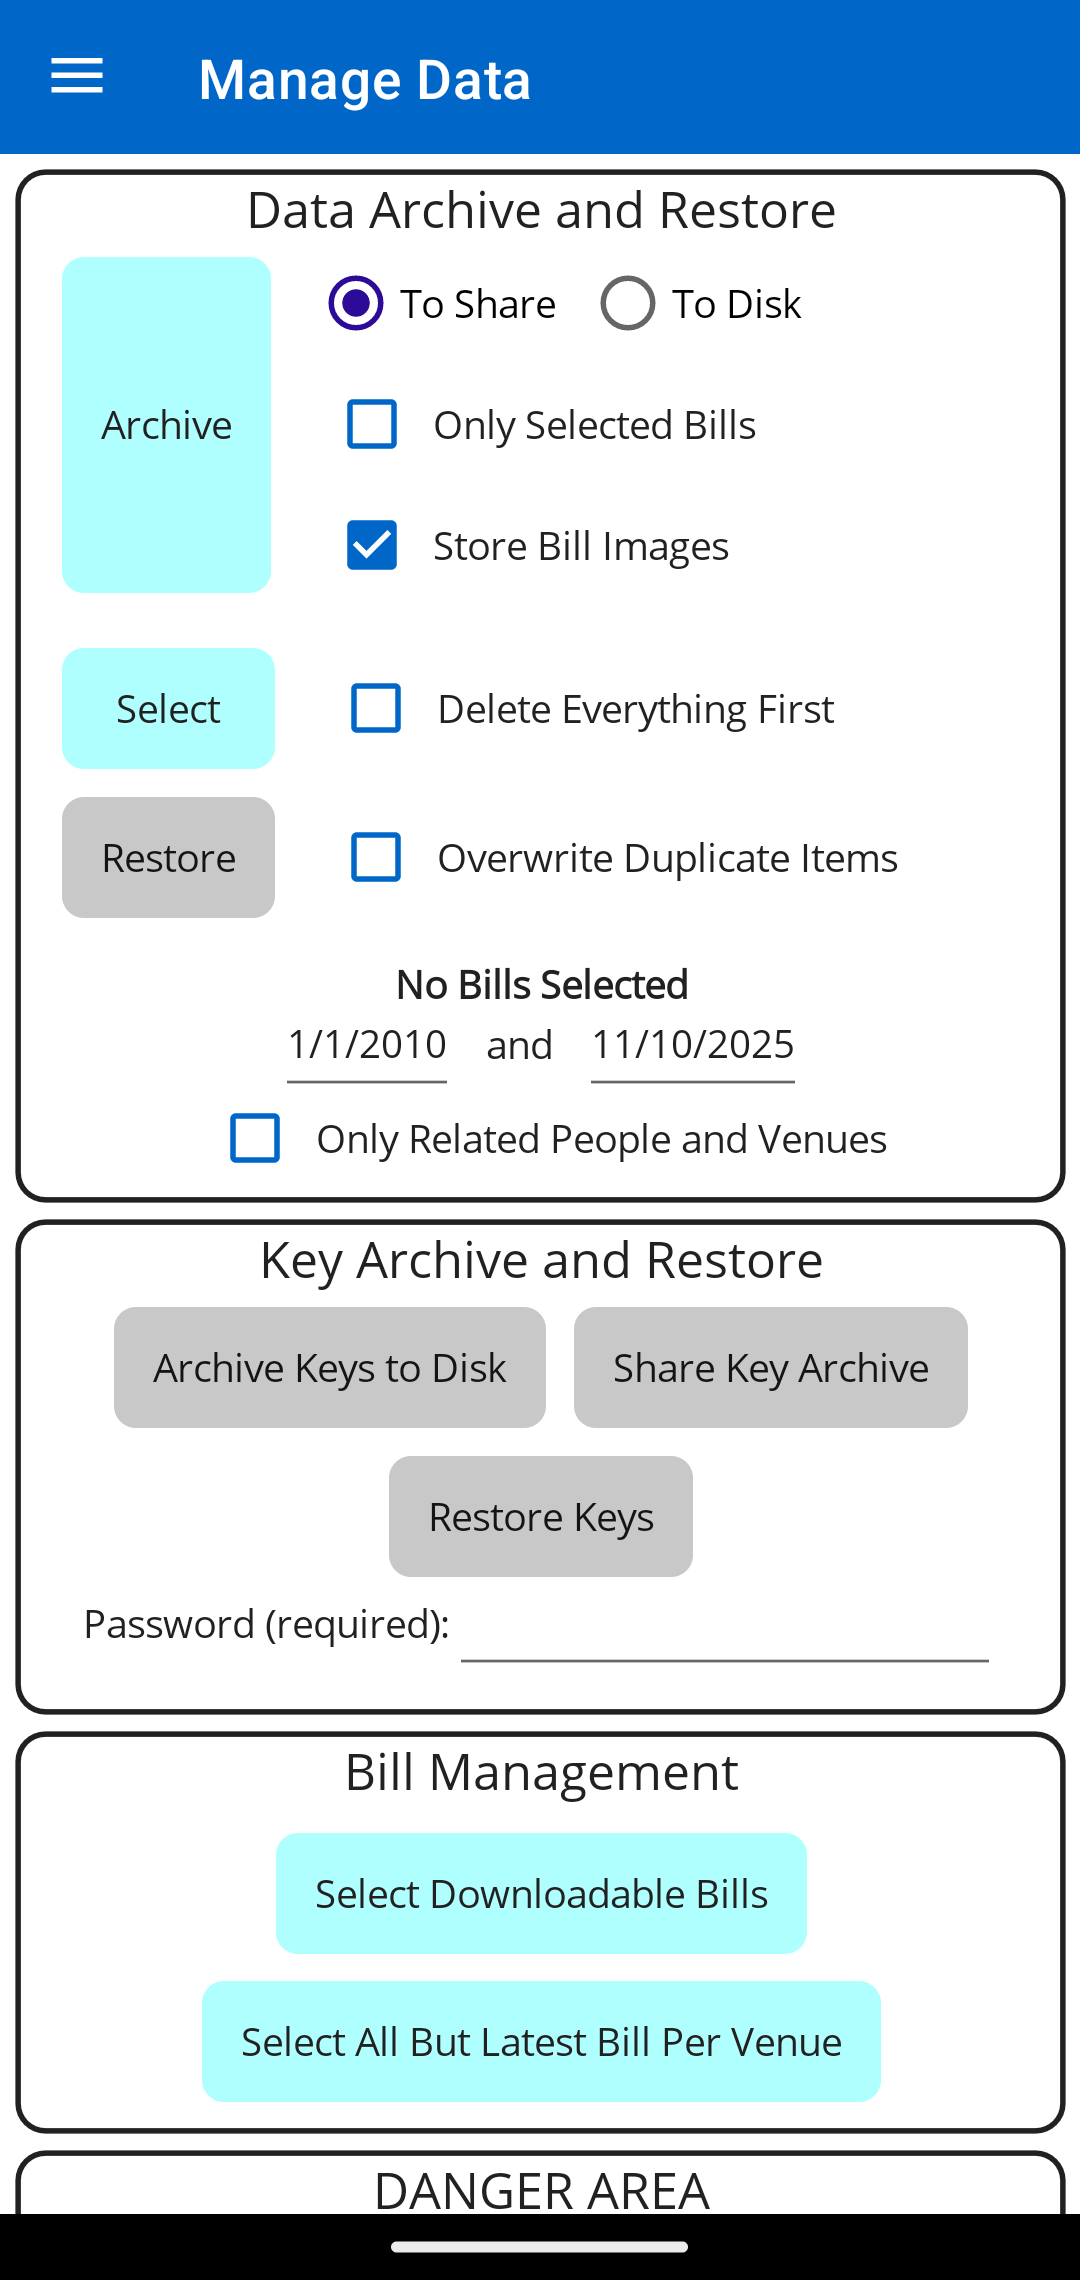
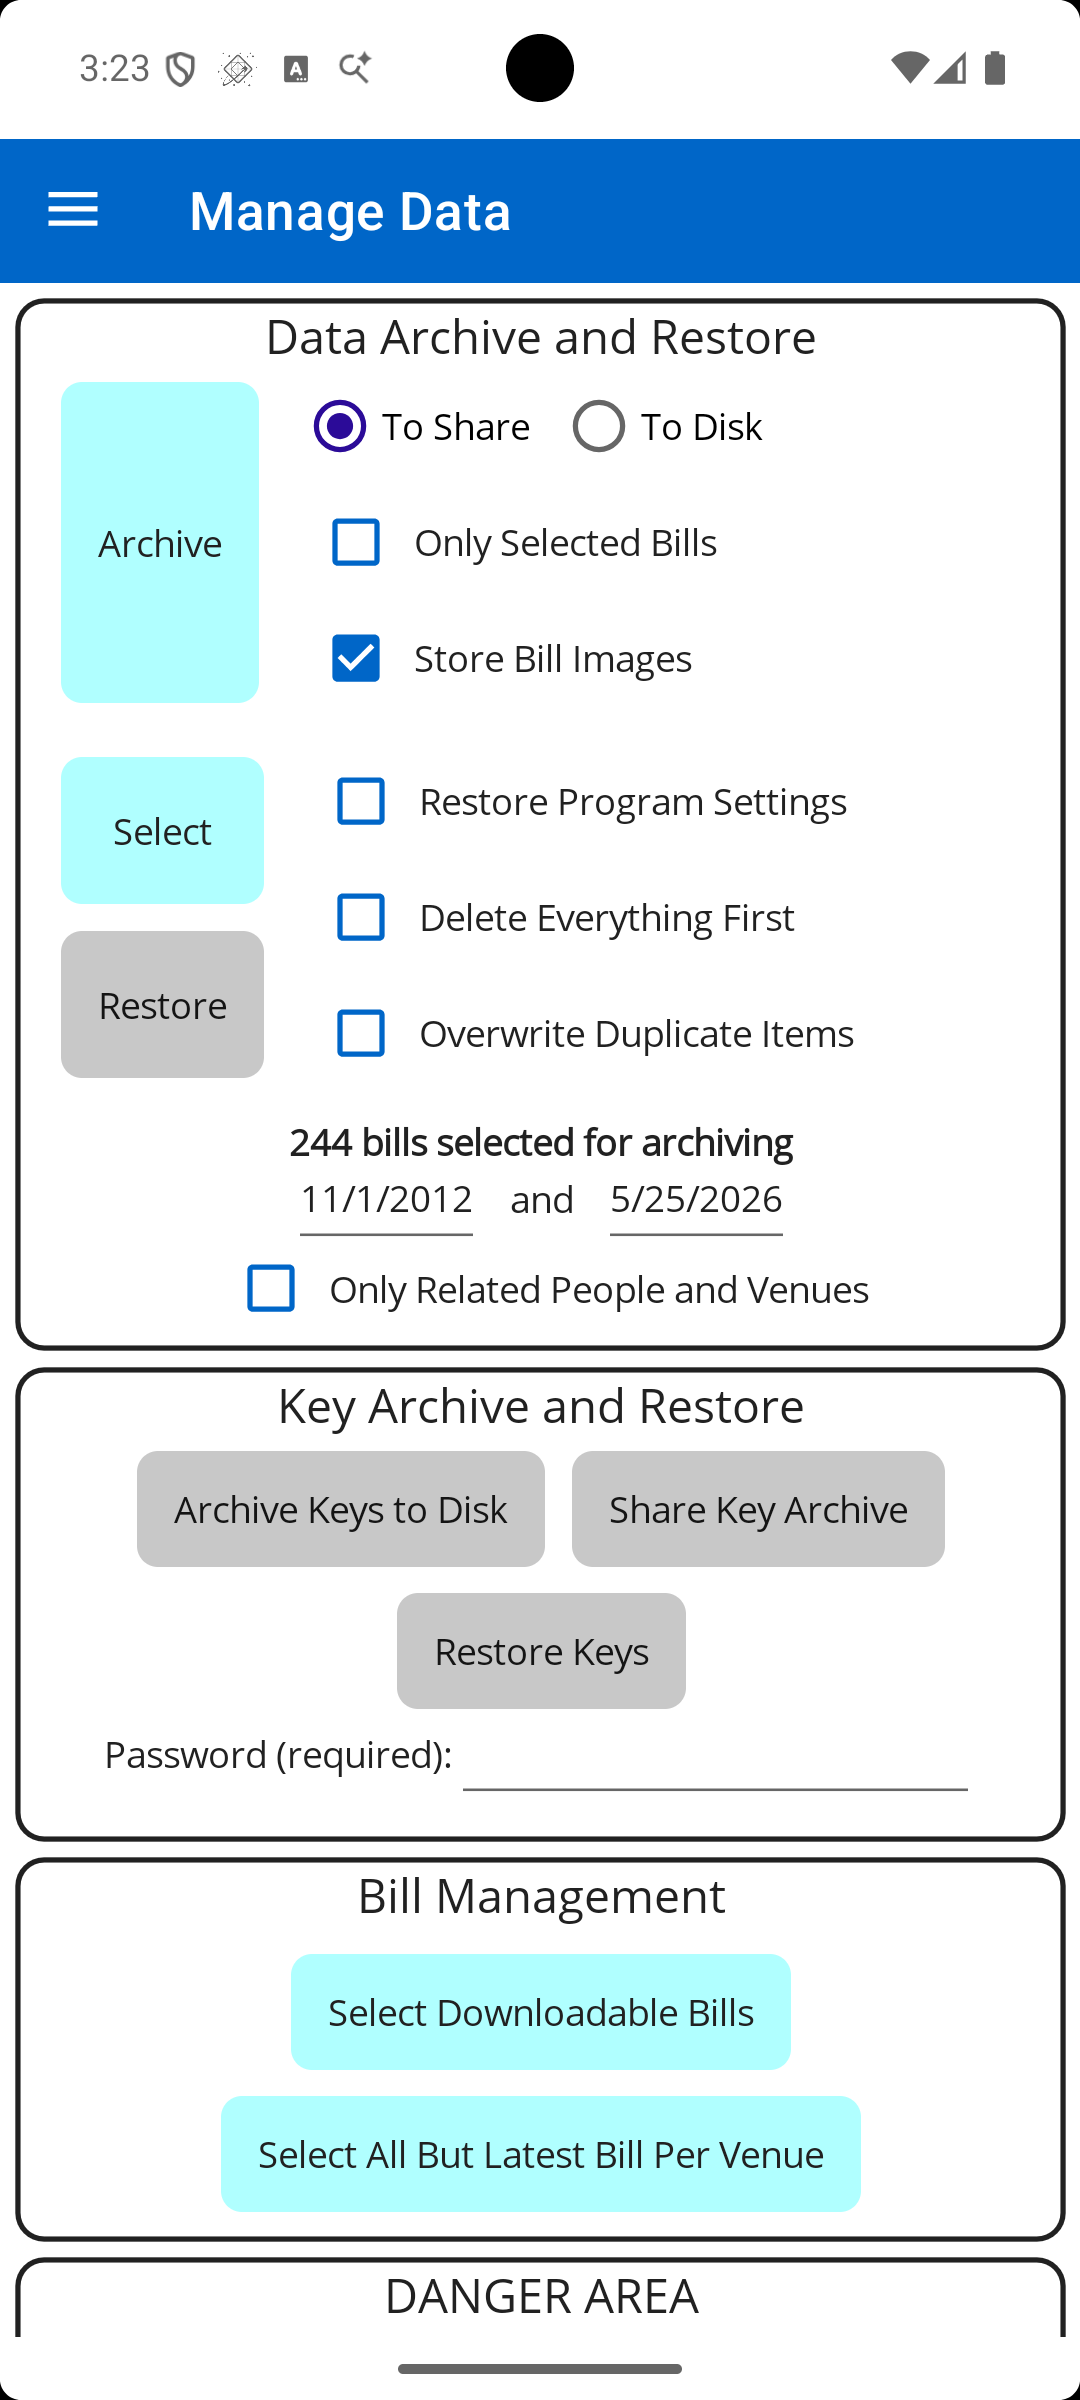
Help Updates 6.3.21 -> 29
Integrating the changes described in the release notes into help.

diff --git a/web/divisibill/lineitemsglossary.html b/web/divisibill/lineitemsglossary.html
@@ -2,10 +2,10 @@
 <!-- GENERATED FILE - DO NOT EDIT -->
 <html>
 <head>
-  <meta charset="utf-8" />
-  <meta name="generator" content="VsMarkdownV2" />
-  <meta name="viewport" content="width=device-width, initial-scale=1.0">
-  <link rel="stylesheet" href="styles.css">
+    <meta charset="utf-8" />
+    <meta name="generator" content="VsMarkdownV2" />
+    <meta name="viewport" content="width=device-width, initial-scale=1.0">
+    <link rel="stylesheet" href="styles.css">
 </head>
 <body>
 <h1 id="items-glossary">Items Glossary</h1>
@@ -43,7 +43,7 @@
 <h2 id="comp">Comp</h2>
 <p>Sometimes items will be &quot;comped&quot; by a restaurant, usually by way of an apology because something went wrong. Clicking in this column allows you to toggle the Comped status of an item, denoted by ☺ (a smiley face icon). Comped items are free, but are still considered when calculating the tip. If you don't want a comped item to contribute to the tip, just set the cost to zero, or delete the item altogether.</p>
 <h2 id="line-items">Line Items</h2>
-<p>You can swipe individual items left to delete them (if you delete an item by mistake you can get it back until you exit the page). Tap on an item to make it the current focus so you can edit the name or price and/or assign it to one or more participants. This button disappears when you leave the page and you can no longer restore the current set of deleted items.</p>
+<p>You can swipe individual items left to delete them (if you delete an item by mistake you can get it back until you exit the page). Tap on an item to make it the current focus so you can edit the name or price and/or assign it to one or more participants. Tap and hold on an item to drag it to a different position in the list. When you do this, the name of the item you are dragging will drag to remind you what you are moving.</p>
 <h2 id="undelete">Undelete</h2>
 <p>The Undelete button appears when there is at least one deleted item, tap it to restore the most recently deleted item. This button disappears when you leave the page.</p>
 <h2 id="undelete-all">Undelete All</h2>
@@ -52,7 +52,6 @@
 <p>When no item is selected a box containing the subtotal shows here. When an item is selected, some additional controls appear; you can see them <a href="itemselected.html">here</a>.</p>
 <p>If no item is selected and &quot;Discount After Tax&quot; is set for this bill in the bill properties then the discount is not part of the subtotal and is shown on a separate line like this:</p>
 <p><img src="lineitemsDAT.png" style="width:90%"></object></p>
-
 
 <script src="script.js"></script>
 </body>

diff --git a/web/divisibill/totalsglossary.html b/web/divisibill/totalsglossary.html
@@ -34,7 +34,7 @@
 <h2 id="venue-name">Venue Name</h2>
 <p>This is the name of the current venue. Tap on it to see the details of the current bill, double tap to select a new venue from your list.</p>
 <h2 id="participant">Participant</h2>
-<p>Each of the participant lines shows the name of the participant and the amount allocated to them. Tap on the line to see the payment breakdown for that participant (good for answering  &quot;what did I pay for&quot; questions); double tap to view the detailed information for that person. Swipe the line left to delete the participant (<u></u>). Swipe the line right to filter items for just that participant (<u></u>).</p>
+<p>Each of the participant lines shows the name of the participant and the amount allocated to them. Tap on the line to see the payment breakdown for that participant (good for answering  &quot;what did I pay for&quot; questions). Swipe the line left to delete the participant (<u></u>). Swipe the line right to filter items for just that participant (<u></u>). You can use a long press to drag a participant to a different position in the list. When you do this, the name of the participant you are dragging will drag to remind you who you are moving.</p>
 <p>Swiping right or tapping in the open area below the list of participants switches to the Items page, deselects any selected participant, or (with a double Tap) shows the breakdown of payments to reach a round number.</p>
 <h2 id="unallocated-amount">Unallocated Amount</h2>
 <p>If there are items not yet allocated, the total value of those items is shown here. Tap on it to switch focus to the first unallocated item.</p>

diff --git a/web/divisibill/index.html b/web/divisibill/index.html
@@ -50,7 +50,7 @@ page. The main pages are:</p>
 <p>Otherwise it connects only when you specifically request it to (for example, in order to back up and recover files or send mail). If a crash should occur, the next run of DivisiBill will ask you if you wish to report it. All these activities are anonymous, though lists of people and venue names could give away information about you.</p>
 <h2 id="data-deletion-policy">Data Deletion Policy</h2>
 <p>Professional Edition Subscribers may delete their cloud based data (bills and/or lists of people or venues) at any time through DivisiBill, by canceling their subscription, or by sending an email request to <a href="mailto:support@autopl.us">DivisiBill Support</a> along with their Professional Subscription order number (DivisiBill will add this to the mail automatically, just don't delete it). Once a Professional Subscription ends (either by being canceled or not being renewed) the corresponding cloud based data will be removed. The source of this data is anonymous though the data itself may give some clues, especially to the users location.</p>
-<p style="Text-align:center; font-size: 0.8em">Updated April 2026 for version 6.3.21</p>
+<p style="Text-align:center; font-size: 0.8em">Updated May 2026 for version 6.3.29</p>
 
 <script src="script.js"></script>
 </body>

diff --git a/web/divisibill/datamanagementglossary.html b/web/divisibill/datamanagementglossary.html
@@ -24,6 +24,8 @@
 <p>Tap this button to select an archive to restore. When you do the page will update with the number of bills in the archive and their creation date range. Change the date range to see how many bills in that date range the archive holds.</p>
 <h2 id="restore-button">Restore Button</h2>
 <p>Tap this to locate an archive file previously created by the &quot;Archive&quot; action and restore its contents. After the restore completes it will switch to the list of bills page.</p>
+<h2 id="program-settings">Program Settings</h2>
+<p>Tap this to restore program settings from an archive file. This includes things like the default tax and tip percentages, and so on. If you do not select this option, these settings will not be changed when you restore from an archive file containing them.</p>
 <h2 id="delete-option">Delete Option</h2>
 <p>Select &quot;Delete Everything First&quot; to remove all people, venues and bills before restoring them.</p>
 <h2 id="overwrite-option">Overwrite Option</h2>

diff --git a/web/divisibill/totalsglossary.md b/web/divisibill/totalsglossary.md
@@ -42,7 +42,7 @@ This is the name of the current venue. Tap on it to see the details of the curre
 
 ## Participant
 
-Each of the participant lines shows the name of the participant and the amount allocated to them. Tap on the line to see the payment breakdown for that participant (good for answering  "what did I pay for" questions); double tap to view the detailed information for that person. Swipe the line left to delete the participant (<u>&#xF0A7A;</u>). Swipe the line right to filter items for just that participant (<u>&#xF0233;</u>).
+Each of the participant lines shows the name of the participant and the amount allocated to them. Tap on the line to see the payment breakdown for that participant (good for answering  "what did I pay for" questions). Swipe the line left to delete the participant (<u>&#xF0A7A;</u>). Swipe the line right to filter items for just that participant (<u>&#xF0233;</u>). You can use a long press to drag a participant to a different position in the list. When you do this, the name of the participant you are dragging will drag to remind you who you are moving.
 
 Swiping right or tapping in the open area below the list of participants switches to the Items page, deselects any selected participant, or (with a double Tap) shows the breakdown of payments to reach a round number.   
 

diff --git a/web/divisibill/lineitemsglossary.md b/web/divisibill/lineitemsglossary.md
@@ -54,8 +54,7 @@ Sometimes items will be "comped" by a restaurant, usually by way of an apology b
 
 ## Line Items
 
-You can swipe individual items left to delete them (if you delete an item by mistake you can get it back until you exit the page). Tap on an item to make it the current focus so you can edit the name or price and/or assign it to one or more participants. This button disappears when you leave the page and you can no longer restore the current set of deleted items.
-
+You can swipe individual items left to delete them (if you delete an item by mistake you can get it back until you exit the page). Tap on an item to make it the current focus so you can edit the name or price and/or assign it to one or more participants. Tap and hold on an item to drag it to a different position in the list. When you do this, the name of the item you are dragging will drag to remind you what you are moving.
 ## Undelete
 
 The Undelete button appears when there is at least one deleted item, tap it to restore the most recently deleted item. This button disappears when you leave the page.

diff --git a/web/divisibill/index.md b/web/divisibill/index.md
@@ -57,4 +57,4 @@ Otherwise it connects only when you specifically request it to (for example, in 
 
 Professional Edition Subscribers may delete their cloud based data (bills and/or lists of people or venues) at any time through DivisiBill, by canceling their subscription, or by sending an email request to [DivisiBill Support](mailto:support@autopl.us) along with their Professional Subscription order number (DivisiBill will add this to the mail automatically, just don't delete it). Once a Professional Subscription ends (either by being canceled or not being renewed) the corresponding cloud based data will be removed. The source of this data is anonymous though the data itself may give some clues, especially to the users location.
 
-<p style="Text-align:center; font-size: 0.8em">Updated April 2026 for version 6.3.21</p>
+<p style="Text-align:center; font-size: 0.8em">Updated May 2026 for version 6.3.29</p>

diff --git a/web/divisibill/datamanagementglossary.md b/web/divisibill/datamanagementglossary.md
@@ -30,6 +30,10 @@ Tap this button to select an archive to restore. When you do the page will updat
 
 Tap this to locate an archive file previously created by the "Archive" action and restore its contents. After the restore completes it will switch to the list of bills page.
 
+## Program Settings
+
+Tap this to restore program settings from an archive file. This includes things like the default tax and tip percentages, and so on. If you do not select this option, these settings will not be changed when you restore from an archive file containing them.
+
 ## Delete Option
 
 Select "Delete Everything First" to remove all people, venues and bills before restoring them. 
